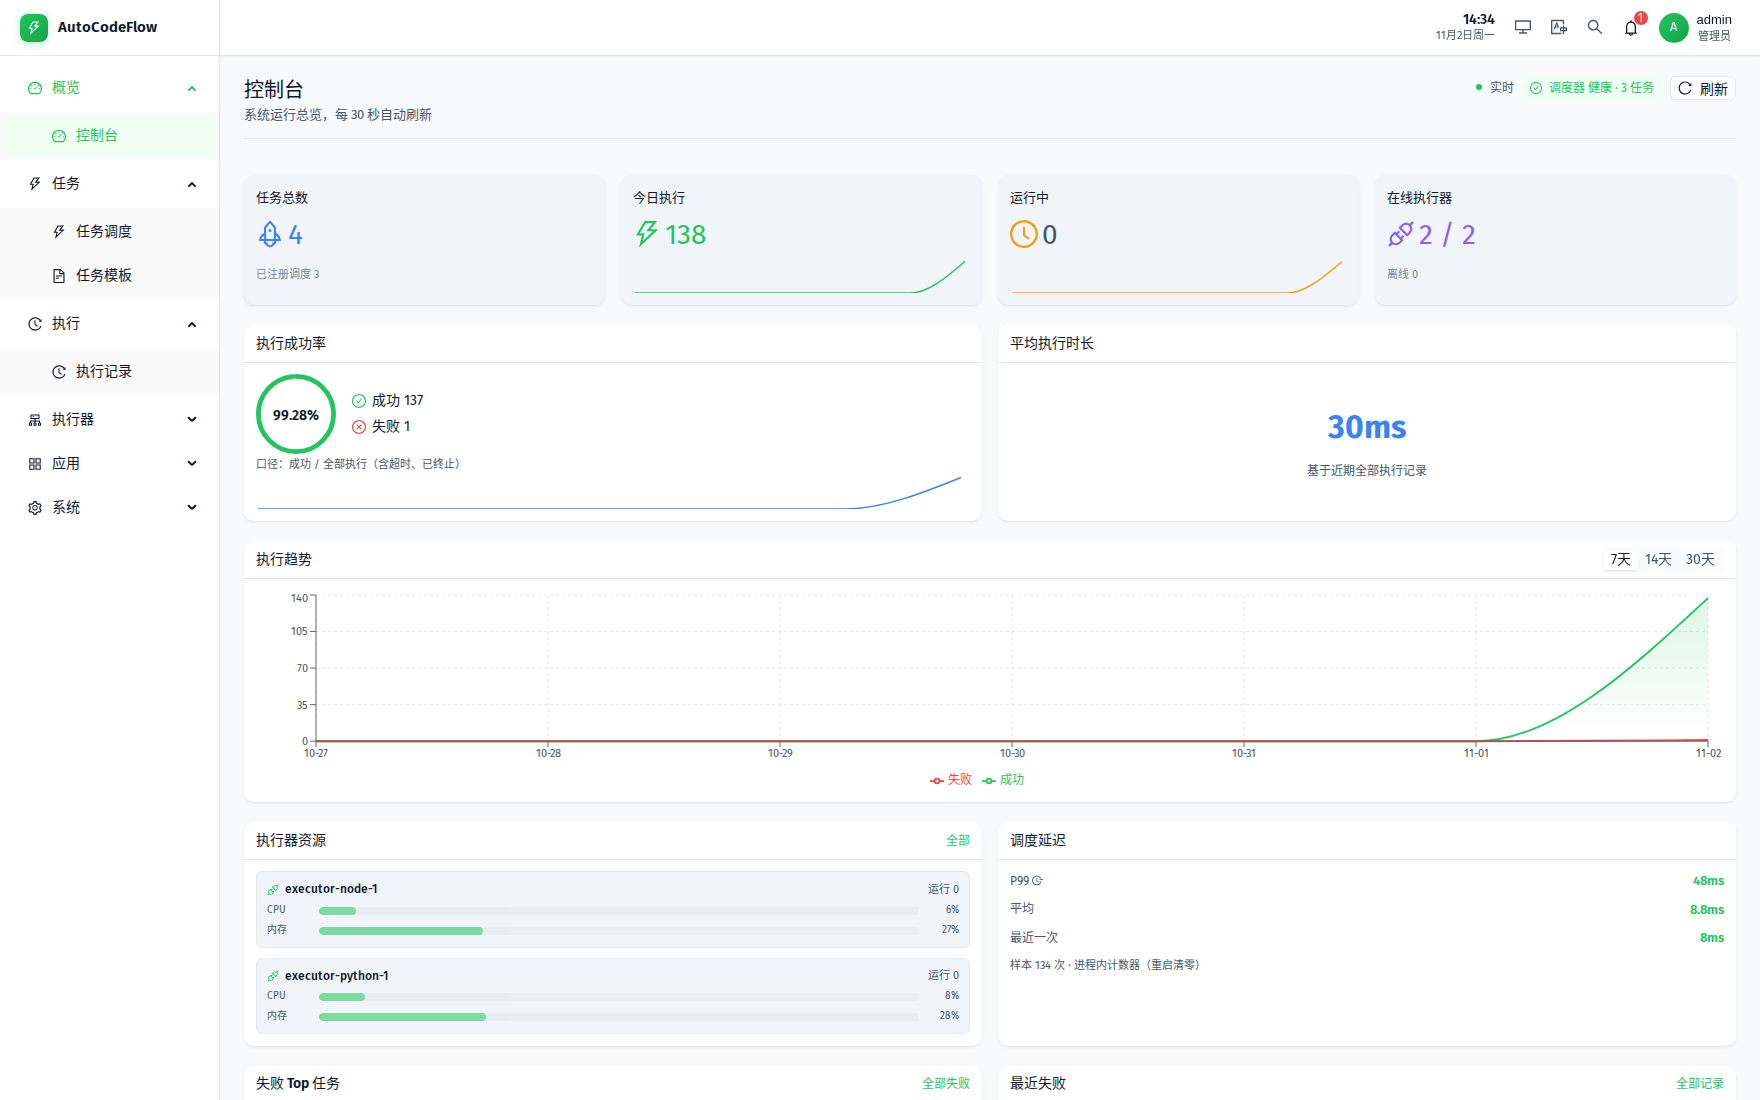
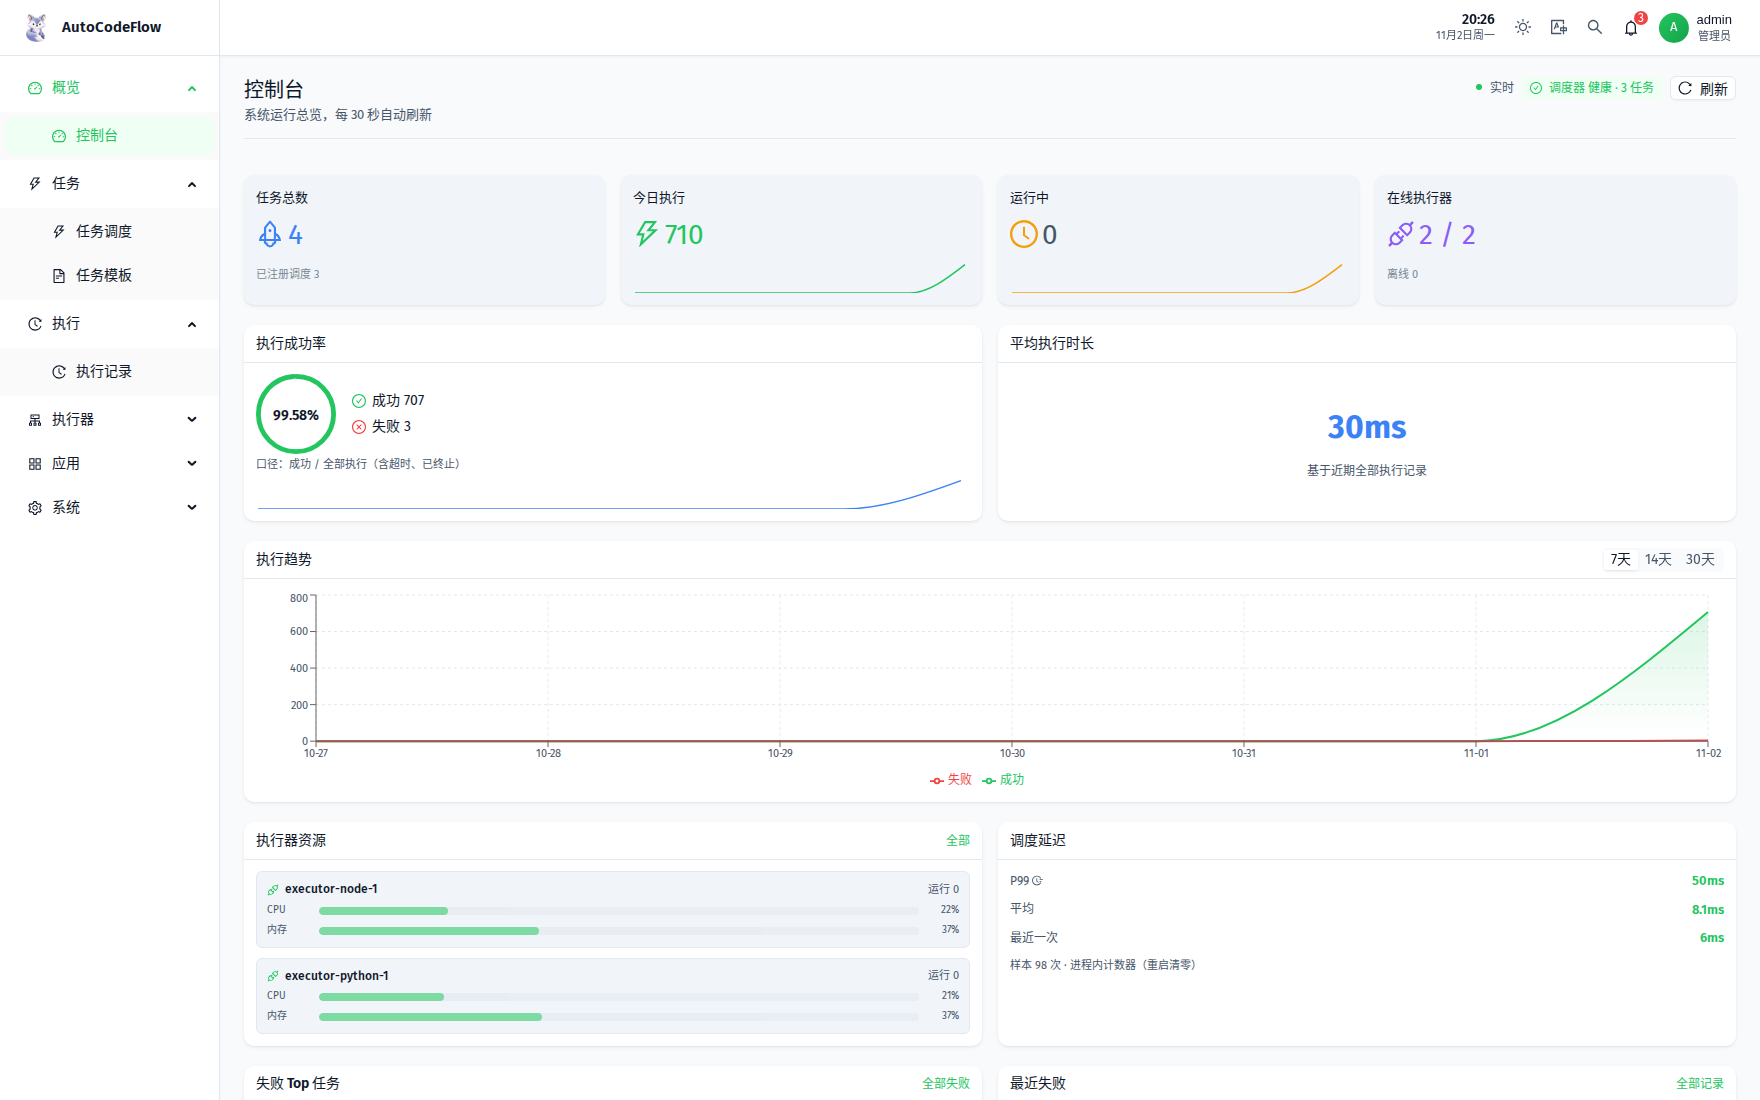
docs(assets): 中英截图一条命令重出 + 把采集口径固化成脚本
中台截图一直是手工截的：视口、页面清单、语言都靠人记，于是每次 UI 改版都要
重记一遍，而且中英两套必然不同步——英文目录里混进中文截图是 DOCS-STYLE §6.3
的红线，§6.5 只列了 demo 栈与桌面 visual-audit 两个入口，中台这一侧始终空着。

新增 `apps/admin-web/scripts/docs-screenshots.mjs`：把「11 页 × 2 语言 ×
1760×1100」固化成数据（含 detail 页从列表页点进去的路径解析、demo 页复用同一
路由），一条命令重出全部；脚本自己断言三件事：
- 每张必须正好 1760×1100（不是被内容撑高的全页截图）；
- 每个语言 × 页面组合都必须产图，缺一张即非零退出（防「英文没拍」）；
- 超过 §6.2 的 350KB 上限时告警（上限是压缩提醒，不是硬失败）。

本轮 22 张按新脚本重拍：品牌位换成狐狸后，侧边栏 / 登录页 / 404 / 空态都与
旧截图不同；同时把中文 execution-detail 那张 164KB 的旧图换成同尺寸更小的版本
（视觉一致，体积降一半）。DOCS-STYLE §6.5 补上这个入口与 `--pages/--langs`
只重拍单页/单语言的两个开关。

验证：22 张全部 1760×1100（逐字节读 PNG 头）、test:docs 全绿。

diff --git a/docs/DOCS-STYLE.md b/docs/DOCS-STYLE.md
@@ -114,6 +114,11 @@ docs/assets/
 # 中台：先起隔离 demo 栈（不要用生产栈截图）
 ./scripts/demo.sh --port 8090 --api-port 3115 --executor-port 8012 --python-executor-port 8011
 
+# 中台：一条命令出「中英 9 页 × 1760×1100」，文件名与 README 引用一致，自动断言成对
+cd apps/admin-web
+node scripts/docs-screenshots.mjs --base-url http://127.0.0.1:8090 --password '<demo 栈的 INITIAL_ADMIN_PASSWORD>'
+# 只重拍 / 只出一门语言：--pages dashboard,tasks  --langs zh
+
 # 桌面：仓库自带视觉审计脚本，使用假数据，不需要登录
 cd apps/executor-desktop
 node e2e/visual-audit.cjs --sizes=1440x900 --lang=zh --tag=docs-zh
